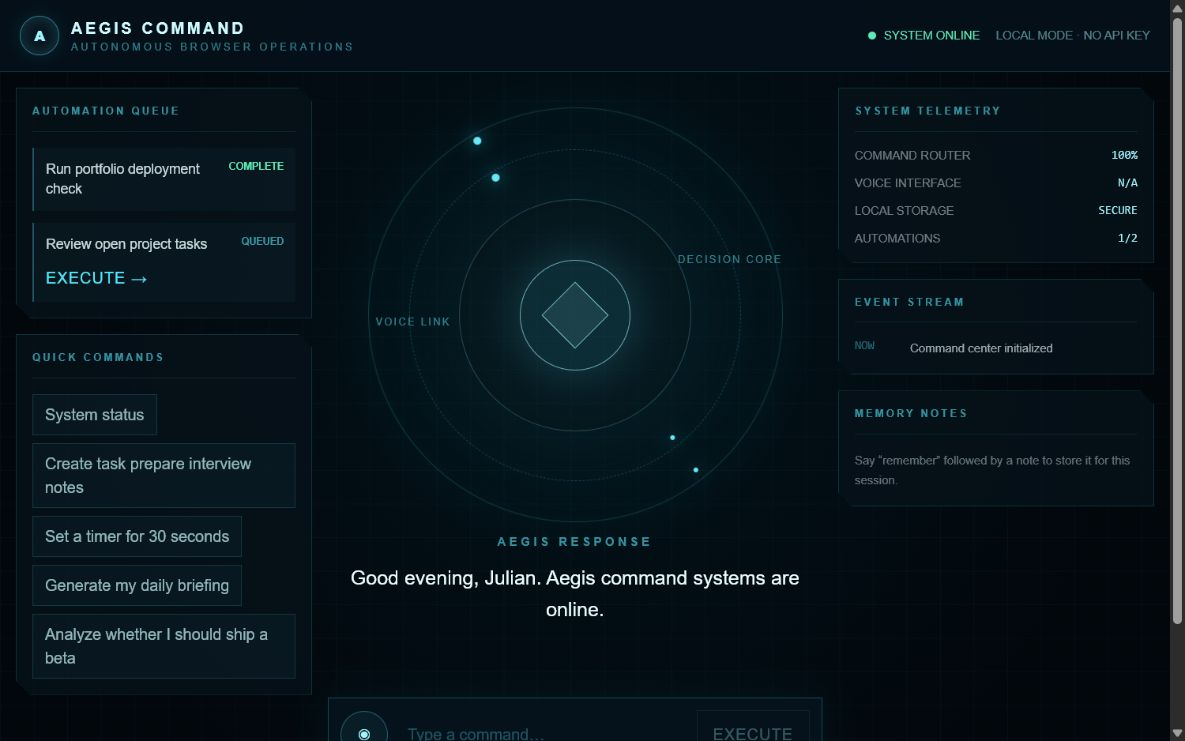
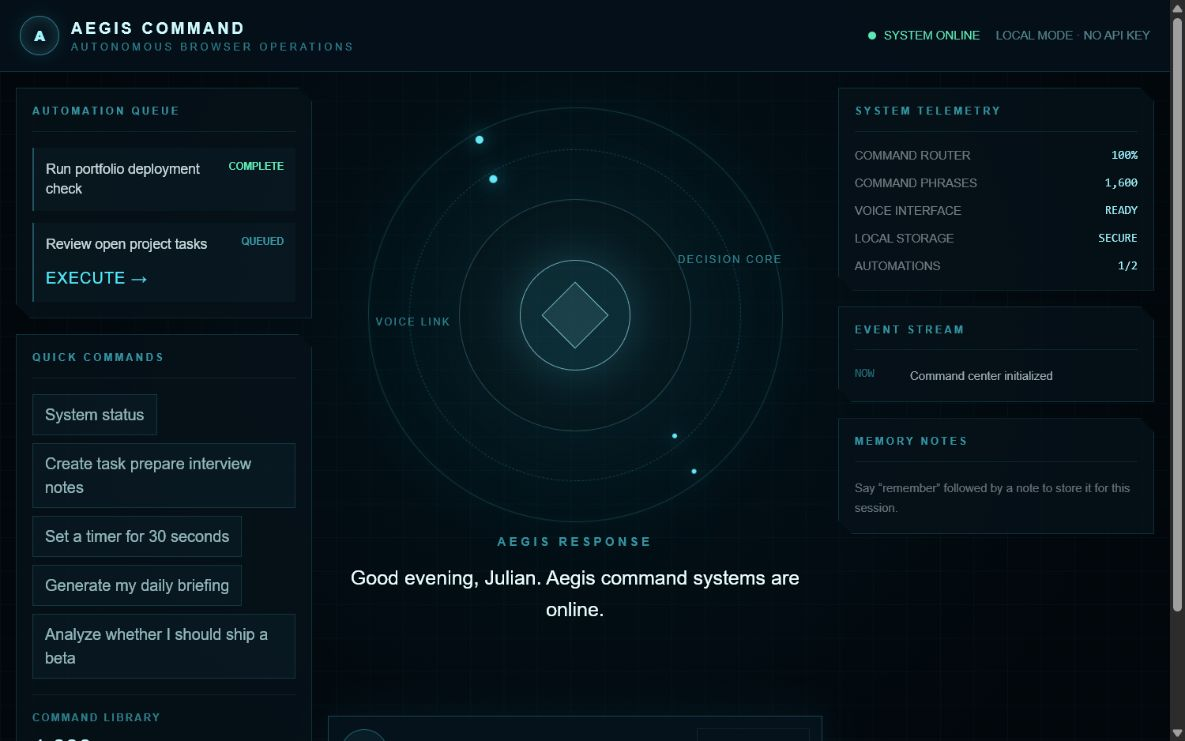
Highlight Aegis command library

diff --git a/app/page.tsx b/app/page.tsx
@@ -78,7 +78,7 @@ const projects = [
   {
     title: "Aegis Command",
     description:
-      "An original cinematic voice assistant and automation command center with speech recognition, spoken responses, timers, task execution, briefings, and decision analysis.",
+      "An original cinematic voice assistant with 1,600 natural-language commands, speech recognition, spoken responses, timers, task automation, briefings, and decision analysis.",
     tech: ["Next.js", "TypeScript", "React", "Web Speech API", "Automation"],
     github: "https://github.com/jdbartlett929/aegis-command",
     live: "https://aegis-command-murex.vercel.app",
